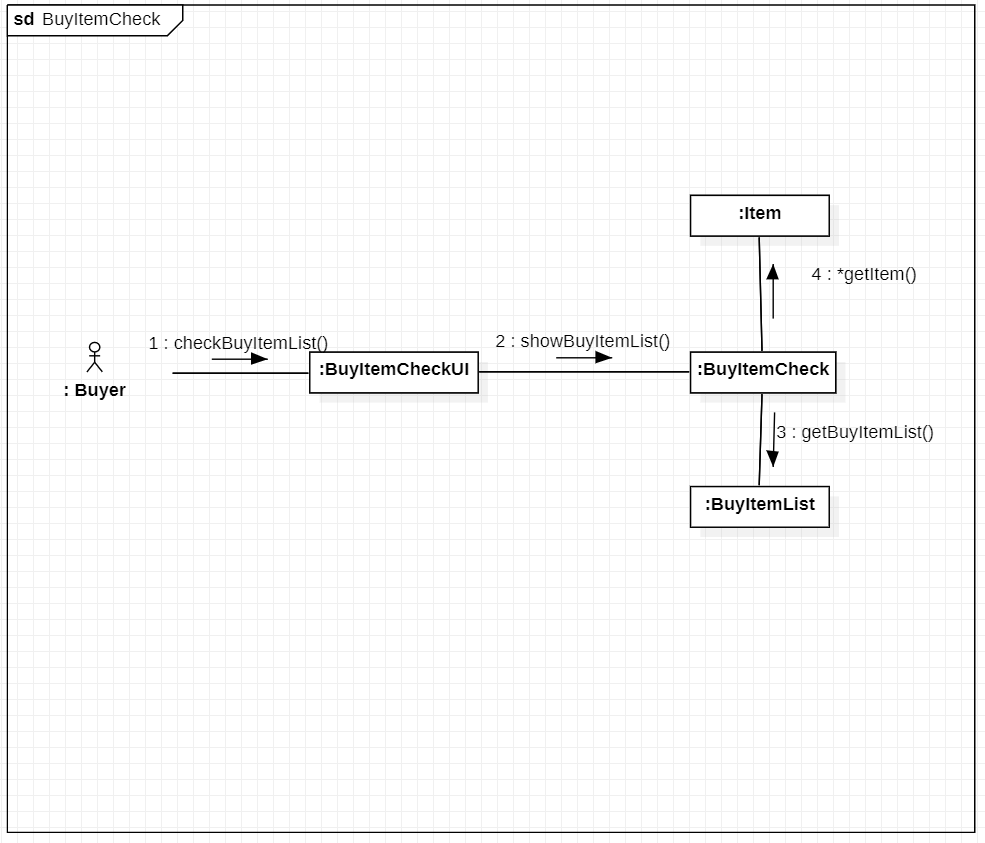
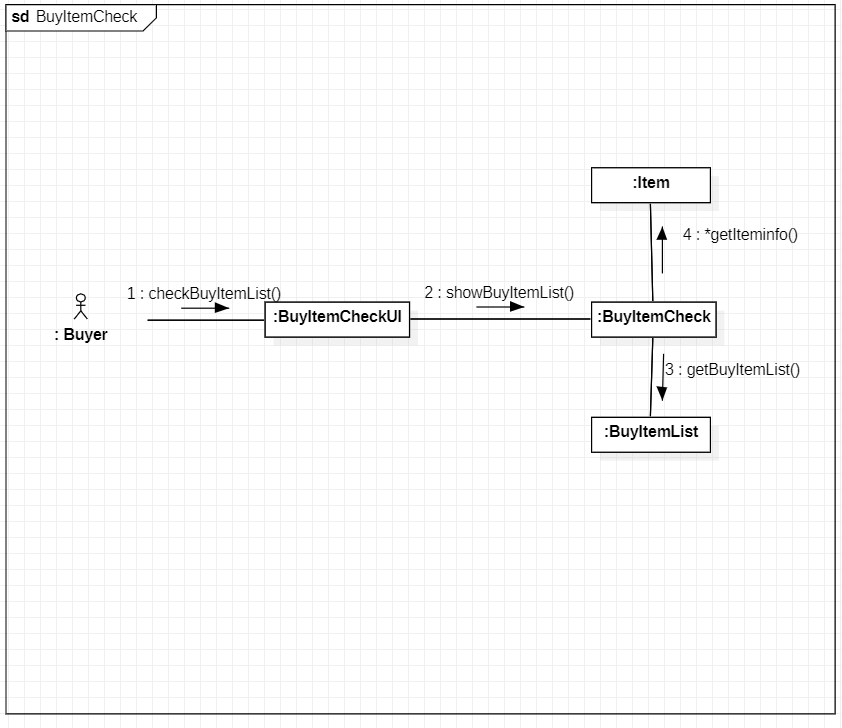
feat: hw3 buyitemcheck communication diagram 변경

diff --git a/Hw3/Communication diagram/Communication diagram.md b/Hw3/Communication diagram/Communication diagram.md
@@ -22,7 +22,7 @@
 ![BuyItem Communication diagram](https://user-images.githubusercontent.com/96877973/168754735-a8bd8d0c-257d-4300-9cc0-5aee968ec291.PNG)
 
 ## Buy Item Check
-![BuyItemCheck Communication diagram](https://user-images.githubusercontent.com/96877973/168754742-6d51429d-bd5e-475f-b560-87e0fdbd7545.PNG)
+![BuyItemCheck Communication diagram](https://user-images.githubusercontent.com/96877973/170880695-6b3e9d3a-96cc-4663-8ca8-e87492e2eb89.PNG)
 
 ## Rate Item
 ![RateItem Communication diagram](https://user-images.githubusercontent.com/96877973/168754749-2b1317e7-a614-41b6-8b45-1aca4feee47e.PNG)
